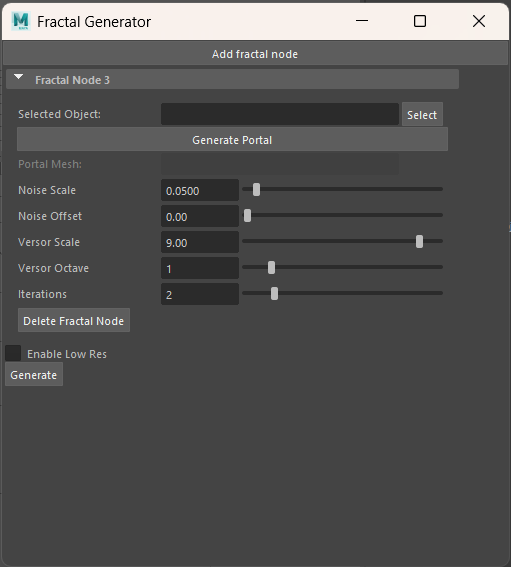
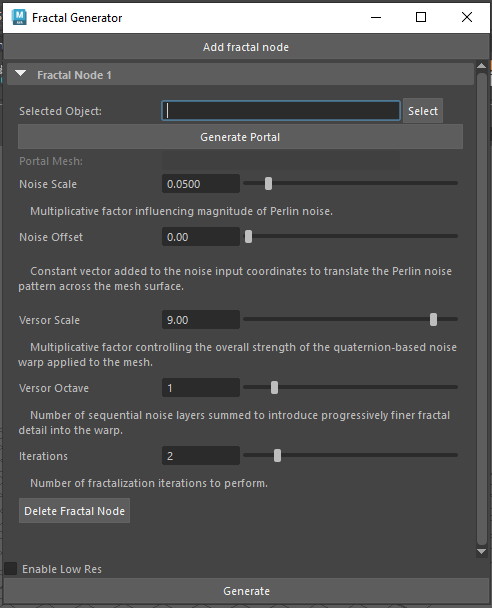
Update UI to include one sentence descriptions of parameters

Changed region(s): [[0.0, 0.0, 1.0, 1.0], [0.5183, 0.7196, 0.9146, 0.7795]]

diff --git a/PluginMain.cpp b/PluginMain.cpp
@@ -33,7 +33,7 @@ void createSelectionUI(MStatus* status) {
         ////////////////////////////////////////////////////////////////////////
         global proc createFractalNodeFields(string $nodeID) {
             // Create a frameLayout for this fractal node.
-            frameLayout -label ("Fractal Node " + $nodeID) -collapsable true -marginWidth 10 -marginHeight 10 ("nodeFrame_" + $nodeID);
+            frameLayout -label ("Fractal Node " + $nodeID) -collapsable true -marginWidth 10 -marginHeight 10 -height 480 ("nodeFrame_" + $nodeID);
                 columnLayout -adjustableColumn true -columnAlign "left";
                     // Selected Object Field for this node.
                     textFieldButtonGrp -columnAlign3 "left" "left" "left" 
@@ -57,15 +57,49 @@ void createSelectionUI(MStatus* status) {
                         ("generatedMeshField_" + $nodeID);
 
                     // Noise Scale Slider
-                    floatSliderGrp -label "Noise Scale" -field true -minValue 0 -maxValue 1.0 -value 0.05 -step 0.0001 -precision 4 -columnAlign3 "left" "left" "left" ("myAlphaSlider_" + $nodeID);
+                    floatSliderGrp -label "Noise Scale" -field true -minValue 0 -maxValue 0.5 -value 0.05 -step 0.0001 -precision 4 -columnAlign3 "left" "left" "left" ("myAlphaSlider_" + $nodeID);
+                    text
+                        -align "left"
+                        -label "    Multiplicative factor influencing magnitude of Perlin noise."
+                        -enable true
+                        -width 200
+                        -wordWrap true;           
+
                     // Noise Offset Slider
                     floatSliderGrp -label "Noise Offset" -field true -minValue 0 -maxValue 10 -value 0.0 -step 0.01 -precision 2 -columnAlign3 "left" "left" "left" ("myBetaSlider_" + $nodeID);
+                    text
+                        -align "left"
+                        -label "    Constant vector added to the noise input coordinates to translate the Perlin noise pattern across the mesh surface."
+                        -enable true
+                        -width 200
+                        -wordWrap true;  
+
                     // Versor Scale Slider
                     floatSliderGrp -label "Versor Scale" -field true -minValue 0 -maxValue 10 -value 9.0 -step 0.01 -precision 2 -columnAlign3 "left" "left" "left" ("myVersorScaleSlider_" + $nodeID);
+                    text
+                        -align "left"
+                        -label "    Multiplicative factor controlling the overall strength of the quaternion-based noise warp applied to the mesh."
+                        -enable true
+                        -width 200
+                        -wordWrap true;
+
                     // Versor Octave Slider
                     intSliderGrp -label "Versor Octave" -field true -minValue 0 -maxValue 8 -value 1 -columnAlign3 "left" "left" "left" ("myVersorOctaveSlider_" + $nodeID);
+                    text
+                        -align "left"
+                        -label "    Number of sequential noise layers summed to introduce progressively finer fractal detail into the warp."
+                        -enable true
+                        -width 200
+                        -wordWrap true;
+
                     // Iterations Slider
                     intSliderGrp -label "Iterations" -field true -minValue 1 -maxValue 8 -value 2 -columnAlign3 "left" "left" "left" ("myNumIterationSlider_" + $nodeID);
+                    text
+                        -align "left"
+                        -label "    Number of fractalization iterations to perform."
+                        -enable true
+                        -width 200
+                        -wordWrap true;
                     
                     // RowLayout for Delete Button (centered)
                     rowLayout -numberOfColumns 1 -columnAlign1 "center";
@@ -199,25 +233,45 @@ void createSelectionUI(MStatus* status) {
         // Main UI window procedure.
         ////////////////////////////////////////////////////////////////////////
         global proc openSelectionWindow() {
-            if (`window -exists mySelectionWindow`) {
-                deleteUI mySelectionWindow;
-            }
-            window -title "Fractal Generator" -resizeToFitChildren true mySelectionWindow;
+            // 1) Fixed window size, auto-resize off:
+            if (`window -exists mySelectionWindow`) deleteUI mySelectionWindow;
+            window 
+                -title "Fractal Generator" 
+                -resizeToFitChildren true  // prevent Maya from growing to fit all children
+                -width 320 
+                -height 500 
+            mySelectionWindow;
+
             columnLayout -adjustableColumn true;
 
-            button -label "Add fractal node" -command "addFractalNode";
-            scrollLayout -width 270 -height 500 -horizontalScrollBarThickness 16 -verticalScrollBarThickness 16;
-                global string $nodesContainer;
-            $nodesContainer = `columnLayout -adjustableColumn true`;
-            setParent ..;
+                button -label "Add fractal node" -command "addFractalNode";
 
-            checkBox
-                -label "Enable Low Res"
-                -value false
-                -annotation "When on, passes a 1 to FractalCmd; otherwise 0"
-                "myToggleCheckbox";
+                // 2) ScrollLayout around *only* the nodes container:
+                scrollLayout
+                    -width 300 
+                    -height 500 
+                    -horizontalScrollBarThickness 16 
+                    -verticalScrollBarThickness   16 
+                    -verticalScrollBarAlwaysVisible true 
+                    -childResizable true        // allow width to shrink, only scroll vertically
+                    "fractalNodesScroll";
 
-            button -label "Generate" -command "onGeneratePressed";
+                    // This columnLayout is the one that will scroll
+                    global string $nodesContainer;
+                    $nodesContainer = `columnLayout -adjustableColumn true`;
+
+                setParent ..;  // closes the nodesContainer columnLayout
+                setParent ..;  // closes the scrollLayout itself
+
+                // Now these live *below* the scroll region, always visible:
+                checkBox
+                    -label "Enable Low Res"
+                    -value false
+                    -annotation "When on, passes a 1 to FractalCmd; otherwise 0"
+                    "myToggleCheckbox";
+
+                button -label "Generate" -command "onGeneratePressed";
+
             showWindow mySelectionWindow;
         }
     )";
